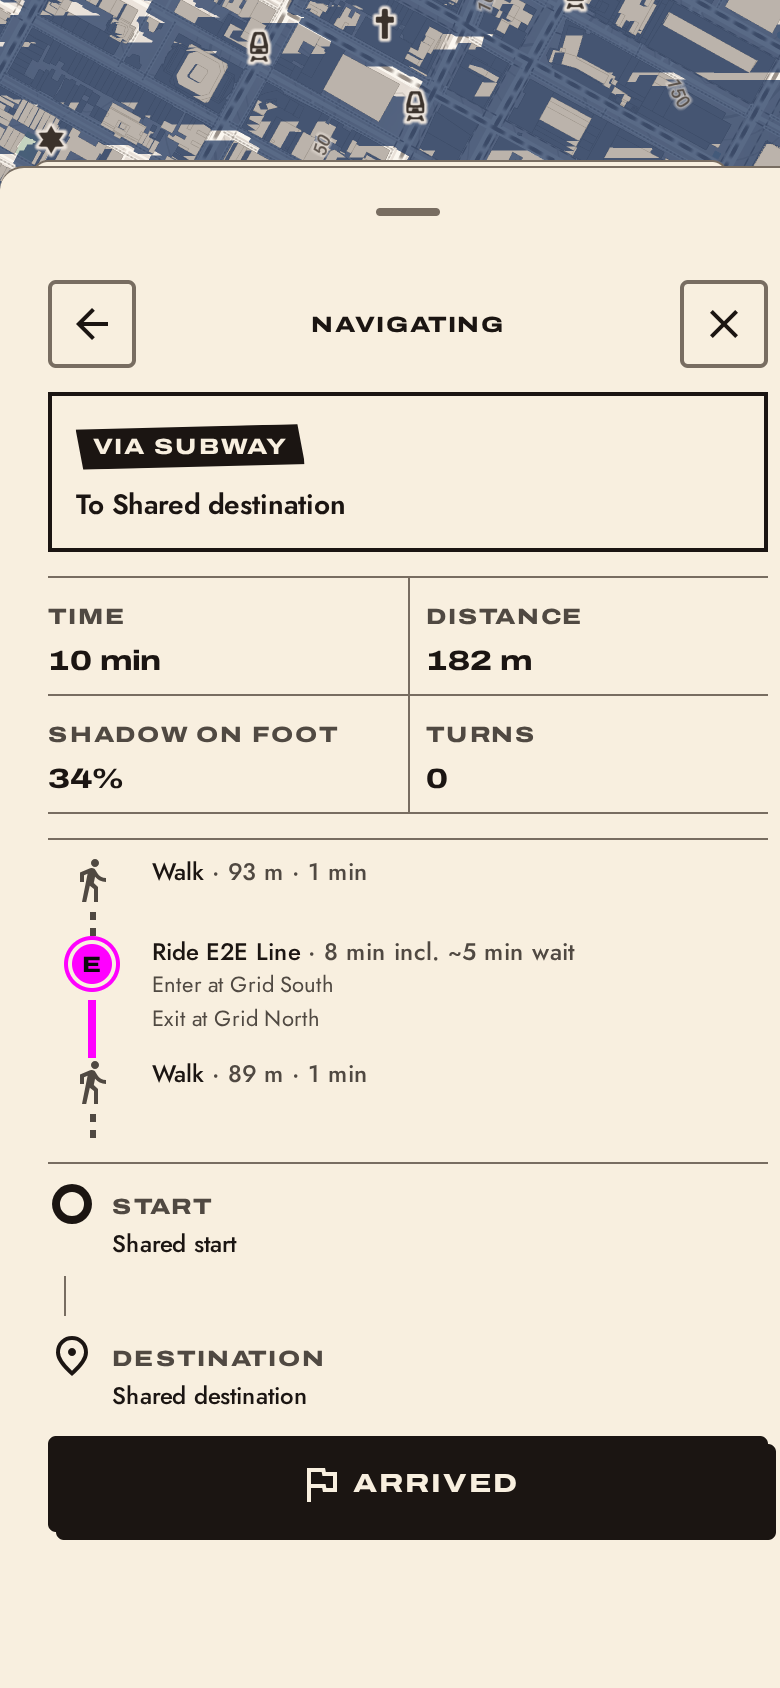
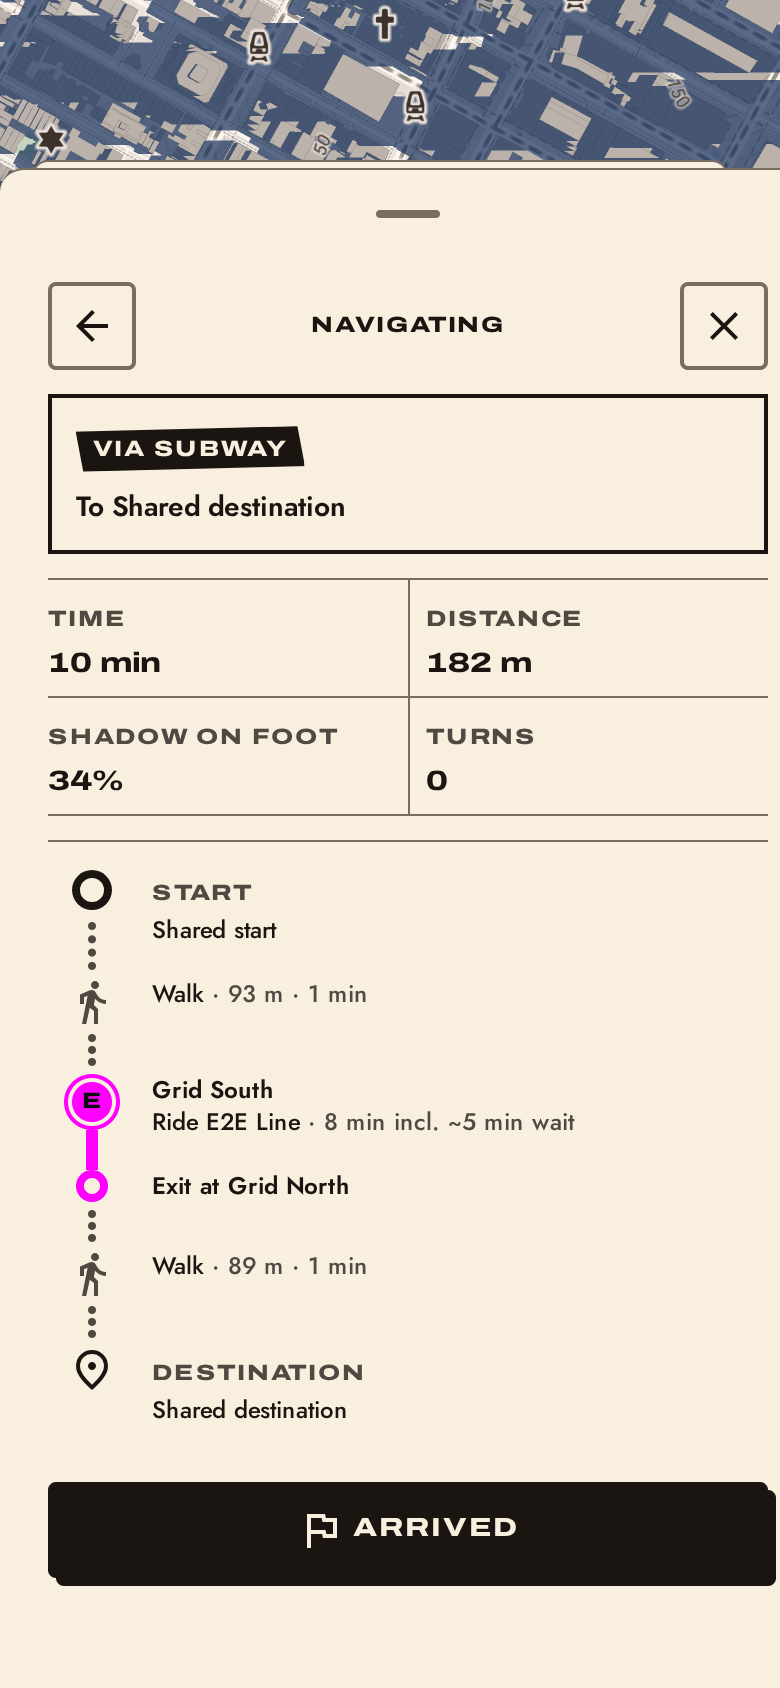
feat(design): R5b navigation itinerary — one rail from start pin to destination, line bar from bullet to exit ring

diff --git a/app/components/NavigationStatusPanel.tsx b/app/components/NavigationStatusPanel.tsx
@@ -1,4 +1,4 @@
-import type { CSSProperties } from "react";
+import type { CSSProperties, ReactNode } from "react";
 import { lineCssColor } from "../lib/lineBulletInk";
 import type { RouteLeg, RouteOption } from "../lib/routing";
 import { routeAfterSunset, routeDurationLabel, routeExposureMinutes, routeShadowShare } from "../lib/routeTradeoff";
@@ -23,74 +23,131 @@ function coordLabel(coord: [number, number] | null): string {
   return `${coord[1].toFixed(5)}, ${coord[0].toFixed(5)}`;
 }
 
+type RailKind = "foot" | "ride";
+
+interface ItineraryRow {
+  id: string;
+  node: ReactNode;
+  /** The segment that leaves this node, drawn down to the next one; none after the last. */
+  rail: RailKind | null;
+  color?: string;
+  body: ReactNode;
+}
+
 /**
- * The leg list, in the pattern a rider already knows: walk / ride / walk, each
- * step with its own time and distance, and for transit the station to board at
- * and the station to exit at. Data comes from `route.legs` — the same records
- * the route cards summarize — so nothing here is a new claim to ground.
- *
- * Each step's icon sits on an itinerary rail that runs the length of the step:
- * dotted for a leg on foot, solid in the line's own colour for a ride, so the
- * change of mode reads down the list the way a transit app draws it.
+ * The trip as one itinerary, in the pattern a rider already knows: the start
+ * pin, dots on foot to the walk step, dots on to the boarding stop, where the
+ * line's bullet heads a solid bar in its colour that ends in a ring at the exit
+ * stop, then dots again past the walk step to the destination pin. Data comes
+ * from `route.legs` (a plain walk is one leg) — the same records the route
+ * cards summarize — so nothing here is a new claim to ground.
  */
-function LegList({ legs, travelMode }: { legs: RouteLeg[]; travelMode: TravelModeId }) {
-  const paceMps = getTravelModePolicy(travelMode).speedMps;
+function Itinerary({
+  legs,
+  travelMode,
+  startLabel,
+  destinationLabel,
+}: {
+  legs: RouteLeg[];
+  travelMode: TravelModeId;
+  startLabel: string;
+  destinationLabel: string;
+}) {
+  const policy = getTravelModePolicy(travelMode);
+  const muted = { color: "var(--color-ink-muted)" };
+  const ink = { color: "var(--color-ink)" };
+  const rows: ItineraryRow[] = [
+    {
+      id: "start",
+      node: <span className="material-symbols-outlined text-[18px]" style={ink} aria-hidden="true">trip_origin</span>,
+      rail: legs[0]?.type === "transit" ? "ride" : "foot",
+      color: legs[0]?.type === "transit" && legs[0].lineColor ? lineCssColor(legs[0].lineColor) : undefined,
+      body: (
+        <>
+          <div className="umbra-kicker">Start</div>
+          <div className="truncate text-xs font-medium" style={ink}>{startLabel}</div>
+        </>
+      ),
+    },
+  ];
+  legs.forEach((leg, n) => {
+    if (leg.type === "transit") {
+      const board = leg.stops?.[0];
+      const exit = leg.stops?.[leg.stops.length - 1];
+      const color = leg.lineColor ? lineCssColor(leg.lineColor) : undefined;
+      rows.push({
+        id: `board-${n}`,
+        node: <LineBullet accent={leg.lineColor} code={leg.line || leg.lineName || "?"} aria-hidden="true" />,
+        rail: "ride",
+        color,
+        body: (
+          <>
+            {board && <div className="text-xs font-semibold" style={ink}>{board}</div>}
+            <div className="text-xs font-medium" style={ink}>
+              Ride {leg.lineName || leg.line || "Transit"}
+              {leg.travelTimeSec != null && (
+                <span style={muted}>
+                  {/* The whole leg, wait included, so the steps add up to Time. */}
+                  {" "}· {formatDuration(leg.travelTimeSec)}
+                  {leg.waitSec ? ` incl. ~${formatDuration(leg.waitSec)} wait` : ""}
+                </span>
+              )}
+            </div>
+          </>
+        ),
+      });
+      rows.push({
+        id: `exit-${n}`,
+        node: <span className="umbra-leg-stop" style={color ? ({ "--leg-color": color } as CSSProperties) : undefined} aria-hidden="true" />,
+        // Off the train, the rider is on foot again until the next boarding or the end.
+        rail: "foot",
+        body: <div className="text-xs font-semibold" style={ink}>{exit && exit !== board ? `Exit at ${exit}` : "Exit"}</div>,
+      });
+      return;
+    }
+    const walkSec = leg.distanceM != null ? leg.distanceM / policy.speedMps : null;
+    rows.push({
+      id: `walk-${n}`,
+      node: <span className="material-symbols-outlined text-base" style={muted} aria-hidden="true">directions_walk</span>,
+      rail: "foot",
+      body: (
+        <div className="text-xs font-medium" style={ink}>
+          {policy.label}
+          {leg.distanceM != null && <span style={muted}> · {formatDistance(leg.distanceM)}</span>}
+          {walkSec != null && <span style={muted}> · {formatDuration(walkSec)}</span>}
+        </div>
+      ),
+    });
+  });
+  rows.push({
+    id: "end",
+    node: <span className="material-symbols-outlined text-[18px]" style={ink} aria-hidden="true">location_on</span>,
+    rail: null,
+    body: (
+      <>
+        <div className="umbra-kicker">Destination</div>
+        <div className="truncate text-xs font-medium" style={ink}>{destinationLabel}</div>
+      </>
+    ),
+  });
+
   return (
     <ol className="flex flex-col" aria-label="Route steps">
-      {legs.map((leg, i) => {
-        if (leg.type === "transit") {
-          const board = leg.stops?.[0];
-          const exit = leg.stops?.[leg.stops.length - 1];
-          const line = leg.lineName || leg.line || "Transit";
-          const railStyle = leg.lineColor ? ({ "--leg-color": lineCssColor(leg.lineColor) } as CSSProperties) : undefined;
-          return (
-            <li key={i} className="flex gap-2">
-              <div className="umbra-leg-rail-column">
-                <LineBullet accent={leg.lineColor} code={leg.line || leg.lineName || "?"} aria-hidden="true" />
-                <span className="umbra-leg-rail umbra-leg-rail--ride" style={railStyle} aria-hidden="true" />
-              </div>
-              <div className="min-w-0 flex-1 pb-3">
-                <div className="text-xs font-medium" style={{ color: "var(--color-ink)" }}>
-                  Ride {line}
-                  {leg.travelTimeSec != null && (
-                    <span style={{ color: "var(--color-ink-muted)" }}>
-                      {/* The whole leg, wait included, so the steps add up to Time. */}
-                      {" "}· {formatDuration(leg.travelTimeSec)}
-                      {leg.waitSec ? ` incl. ~${formatDuration(leg.waitSec)} wait` : ""}
-                    </span>
-                  )}
-                </div>
-                {board && (
-                  <div className="text-[11px]" style={{ color: "var(--color-ink-muted)" }}>
-                    Enter at {board}
-                  </div>
-                )}
-                {exit && exit !== board && (
-                  <div className="text-[11px]" style={{ color: "var(--color-ink-muted)" }}>
-                    Exit at {exit}
-                  </div>
-                )}
-              </div>
-            </li>
-          );
-        }
-        const walkSec = leg.distanceM != null ? leg.distanceM / paceMps : null;
-        return (
-          <li key={i} className="flex gap-2">
-            <div className="umbra-leg-rail-column">
-              <span className="material-symbols-outlined text-base" style={{ color: "var(--color-ink-muted)" }} aria-hidden="true">
-                directions_walk
-              </span>
-              <span className="umbra-leg-rail umbra-leg-rail--foot" aria-hidden="true" />
-            </div>
-            <div className="min-w-0 flex-1 pb-3 text-xs font-medium" style={{ color: "var(--color-ink)" }}>
-              {getTravelModePolicy(travelMode).label}
-              {leg.distanceM != null && <span style={{ color: "var(--color-ink-muted)" }}> · {formatDistance(leg.distanceM)}</span>}
-              {walkSec != null && <span style={{ color: "var(--color-ink-muted)" }}> · {formatDuration(walkSec)}</span>}
-            </div>
-          </li>
-        );
-      })}
+      {rows.map((row) => (
+        <li key={row.id} className="flex gap-2">
+          <div className="umbra-leg-rail-column">
+            {row.node}
+            {row.rail && (
+              <span
+                className={`umbra-leg-rail umbra-leg-rail--${row.rail}`}
+                style={row.color ? ({ "--leg-color": row.color } as CSSProperties) : undefined}
+                aria-hidden="true"
+              />
+            )}
+          </div>
+          <div className="min-w-0 flex-1 pb-4">{row.body}</div>
+        </li>
+      ))}
     </ol>
   );
 }
@@ -209,33 +266,14 @@ export default function NavigationStatusPanel({
         </div>
       )}
 
-      {/* Leg list — walk / ride / walk with times and board/exit stations,
-          the pattern a rider already knows. Single-leg walk routes skip it:
-          the stats grid already says everything there is to say. */}
-      {route?.legs && route.legs.length > 1 && (
-        <div className="border-t pt-2" style={{ borderColor: "var(--color-rule)" }}>
-          <LegList legs={route.legs} travelMode={route.travelMode ?? "walk"} />
-        </div>
-      )}
-
-      <div className="border-t pt-2" style={{ borderColor: "var(--color-rule)" }}>
-        <div className="flex items-start gap-2">
-          <span className="material-symbols-outlined text-[18px]" style={{ color: "var(--color-ink)" }} aria-hidden="true">trip_origin</span>
-          <div className="min-w-0 flex-1">
-            <div className="umbra-kicker">Start</div>
-            <div className="truncate text-xs font-medium" style={{ color: "var(--color-ink)" }}>
-              {waypointALabel ?? coordLabel(waypointA)}
-            </div>
-          </div>
-        </div>
-        <div className="my-2 ml-2 h-5 border-l" style={{ borderColor: "var(--color-rule)" }} />
-        <div className="flex items-start gap-2">
-          <span className="material-symbols-outlined text-[18px]" style={{ color: "var(--color-ink)" }} aria-hidden="true">location_on</span>
-          <div className="min-w-0 flex-1">
-            <div className="umbra-kicker">Destination</div>
-            <div className="truncate text-xs font-medium" style={{ color: "var(--color-ink)" }}>{destination}</div>
-          </div>
-        </div>
+      {/* The itinerary: start to destination on one rail, every leg between. */}
+      <div className="border-t pt-3" style={{ borderColor: "var(--color-rule)" }}>
+        <Itinerary
+          legs={route?.legs && route.legs.length > 0 ? route.legs : route ? [{ type: "walk", geojson: route.geojson, distanceM: route.distanceM }] : []}
+          travelMode={route?.travelMode ?? "walk"}
+          startLabel={waypointALabel ?? coordLabel(waypointA)}
+          destinationLabel={destination}
+        />
       </div>
 
       <button

diff --git a/app/components/__tests__/NavigationStatusPanel.test.tsx b/app/components/__tests__/NavigationStatusPanel.test.tsx
@@ -92,21 +92,35 @@ describe("NavigationStatusPanel (R5b)", () => {
     expect(screen.getByText(/15 min incl\. ~10 min wait/)).toBeTruthy();
   });
 
-  it("draws the itinerary rail: dotted on foot, solid in the line's colour for the ride", () => {
+  it("draws one itinerary: dots on foot, the line's bar from its bullet to a ring at the exit", () => {
     const legs: RouteLeg[] = [
       { type: "walk", geojson: LINE, distanceM: 90, shadowCoverage: 0.5 },
-      { type: "transit", geojson: LINE, line: "N", lineColor: "ffe14d", travelTimeSec: 480 },
+      { type: "transit", geojson: LINE, line: "N", lineColor: "ffe14d", travelTimeSec: 480, stops: ["34 St", "Canal St"] },
       { type: "walk", geojson: LINE, distanceM: 90, shadowCoverage: 0.5 },
     ];
     panel(walk({ label: "Via Subway", legs, totalTimeSec: 600 }));
-    const steps = screen.getByRole("list", { name: "Route steps" }).querySelectorAll("li");
-    const rails = [...steps].map((li) => li.querySelector(".umbra-leg-rail") as HTMLElement);
-    expect(rails.map((r) => r.className)).toEqual([
+    const steps = [...screen.getByRole("list", { name: "Route steps" }).querySelectorAll("li")];
+    // start → walk → board → exit → walk → destination; the rail leaving each node.
+    expect(steps.map((li) => li.querySelector(".umbra-leg-rail")?.className ?? null)).toEqual([
+      "umbra-leg-rail umbra-leg-rail--foot",
       "umbra-leg-rail umbra-leg-rail--foot",
       "umbra-leg-rail umbra-leg-rail--ride",
       "umbra-leg-rail umbra-leg-rail--foot",
+      "umbra-leg-rail umbra-leg-rail--foot",
+      null,
     ]);
-    // Bare-hex OSM colours are made valid CSS, as the bullet does.
-    expect(rails[1].style.getPropertyValue("--leg-color")).toBe("#ffe14d");
+    // The bar and its exit ring take the line's colour; bare-hex OSM colours become valid CSS.
+    expect((steps[2].querySelector(".umbra-leg-rail") as HTMLElement).style.getPropertyValue("--leg-color")).toBe("#ffe14d");
+    expect((steps[3].querySelector(".umbra-leg-stop") as HTMLElement).style.getPropertyValue("--leg-color")).toBe("#ffe14d");
+    expect(steps[2].textContent).toContain("34 St");
+    expect(steps[3].textContent).toBe("Exit at Canal St");
+    expect(steps[5].textContent).toContain("Bryant Park");
+  });
+
+  it("gives a plain walk the same rail, start pin to destination pin", () => {
+    panel(walk());
+    const steps = [...screen.getByRole("list", { name: "Route steps" }).querySelectorAll("li")];
+    expect(steps).toHaveLength(3);
+    expect(steps[1].textContent).toContain("Walk · 700 m · 8 min");
   });
 });

diff --git a/app/globals.css b/app/globals.css
@@ -525,19 +525,27 @@ body {
   .umbra-segmented__option:disabled { color: var(--color-ink-muted); cursor: not-allowed; text-decoration: line-through; }
   .umbra-segmented__option:focus-visible { outline: 2px solid currentColor; outline-offset: -4px; }
 
-  /* Itinerary rail (NavigationStatusPanel): a step's icon above a rail running
-     the step's length — dotted on foot, solid in the line's colour for a ride. */
+  /* Itinerary rail (NavigationStatusPanel): each node above the segment that
+     leaves it — round dots on foot, a solid bar in the line's colour for a ride,
+     ending in a ring at the exit stop. */
   .umbra-leg-rail-column {
     display: flex;
     width: 2.75rem;
     flex-shrink: 0;
     flex-direction: column;
     align-items: center;
-    gap: 0.25rem;
   }
-  .umbra-leg-rail { flex: 1; min-height: 0.75rem; width: 0; }
-  .umbra-leg-rail--foot { border-left: 3px dotted var(--color-ink-muted); }
-  .umbra-leg-rail--ride { border-left: 4px solid var(--leg-color, var(--color-ink)); }
+  .umbra-leg-rail { flex: 1; min-height: 1rem; width: 0; }
+  .umbra-leg-rail--foot { margin-block: 0.25rem; border-left: 4px dotted var(--color-ink-muted); }
+  .umbra-leg-rail--ride { border-left: 6px solid var(--leg-color, var(--color-ink)); }
+  .umbra-leg-stop {
+    display: block;
+    width: 1rem;
+    height: 1rem;
+    border: 4px solid var(--leg-color, var(--color-ink));
+    border-radius: var(--radius-circle);
+    background: var(--color-panel);
+  }
 
   .umbra-kicker {
     display: inline-block;

diff --git a/docs/tracks/TRACK_R.md b/docs/tracks/TRACK_R.md
@@ -35,8 +35,10 @@ inspiration; the public mirror publishes everything here.
   `NavigationStatusPanel` is a ticket: the route on a kicker plate, ruled cells that follow
   the card's rules exactly (`routeDurationLabel`; shade from `routeShadowShare`, "Unknown"
   where the card withholds it, "After sunset", a rain card only for a rain-priced route),
-  `LineBullet` legs whose ride step names its wait so the steps sum to Time, on an
-  itinerary rail (owner request): dotted on foot, solid in the line's colour for a ride.
+  and one itinerary replacing the leg list and the start/destination block (owner request,
+  modelled on a transit app's trip view): start pin, round dots on foot through each walk
+  step, the line's bullet heading a solid bar in its colour that ends in a ring at the exit
+  stop, dots on to the destination pin; the ride step names its wait so steps sum to Time.
 - **Done:** R0 (#120), R1 (#122), R2 (#127), R3 (#132), R4a (#139) and R4b (#141) merged.
   R5a is the first consumer of R3's primitives: the option on a `Kicker plated`, `Tag` for
   Recommended (shade, or rain on rain cards; never orange), `LineBullet` per transit leg, and
@@ -87,7 +89,7 @@ inspiration; the public mirror publishes everything here.
   Still open from R4b: hollow A/filled B swap at night; the opaque night route covers labels.
 - **Next action:** #149 (transit line badges on the map) after R5a/R5b review, then R6 —
   timeline and sheet (#138). #126 keeps its SettingsPanel/SaveRouteModal half.
-- **Last verified (R5b):** 2026-09-30 on Node 24; lint (0 errors), typecheck, 1,752 unit
+- **Last verified (R5b):** 2026-09-30 on Node 24; lint (0 errors), typecheck, 1,753 unit
   tests (one run hit the #140 `useNavigation` A4b flake; it passes alone and on re-run),
   build, design:check and e2e 16/16. Shots in `docs/design/shots/r5b/`.
 - **Last verified (R5a):** 2026-09-30 on Node 24; lint (0 errors), typecheck, 1,742 unit
